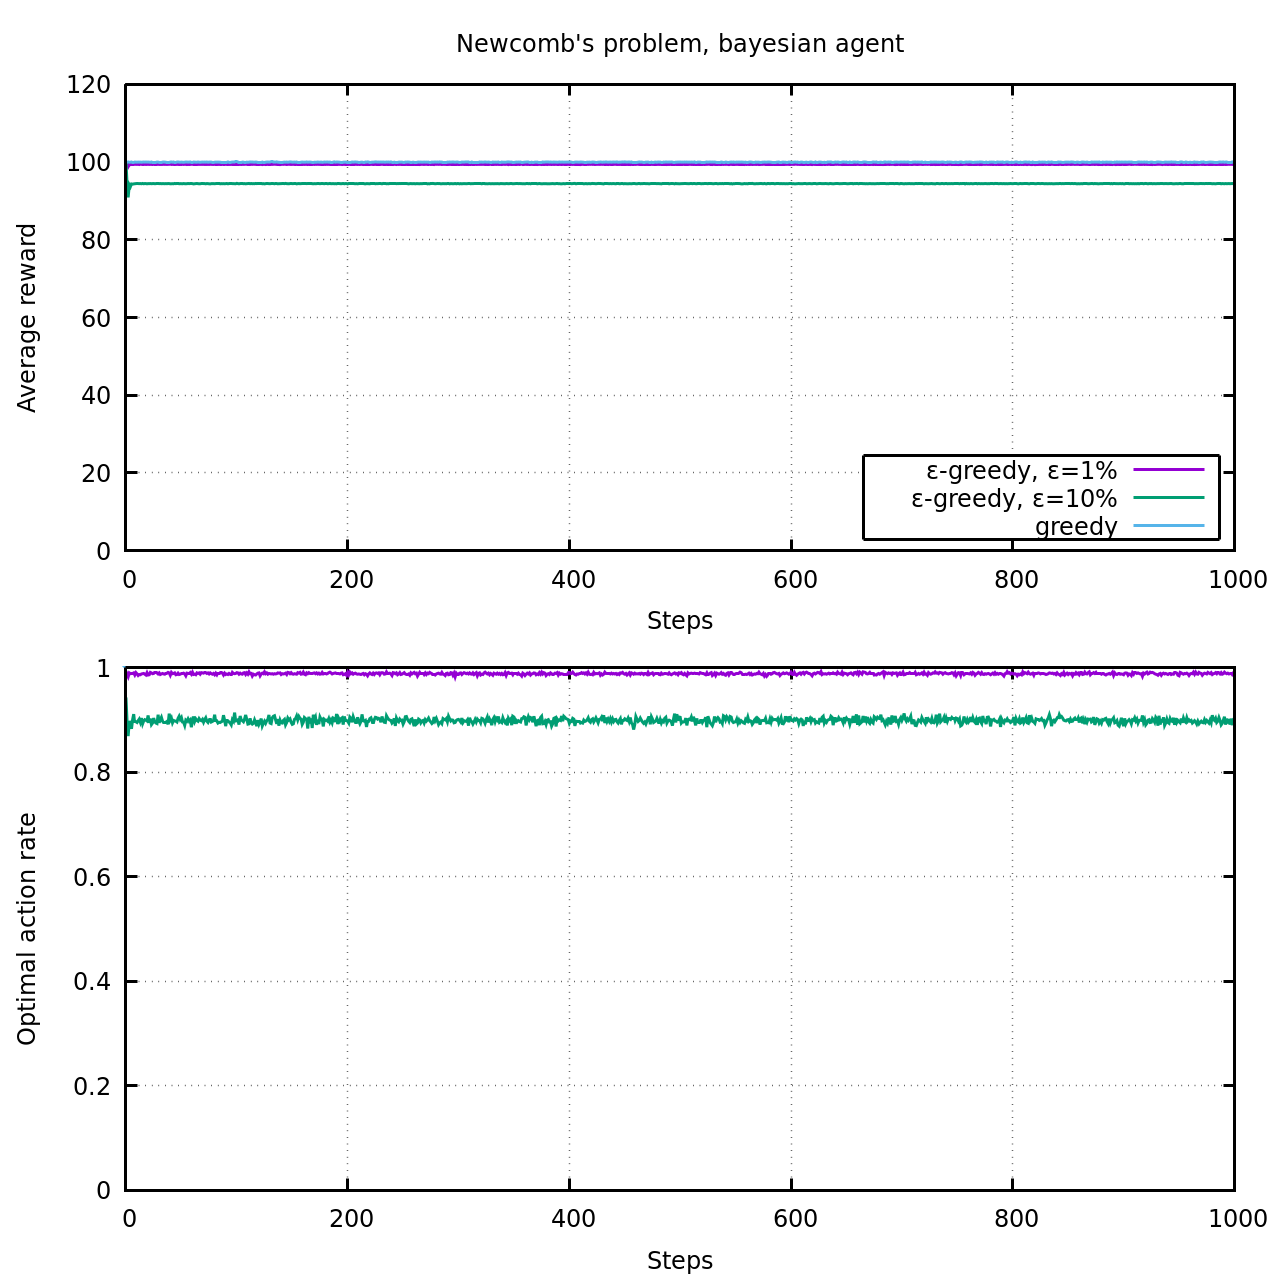
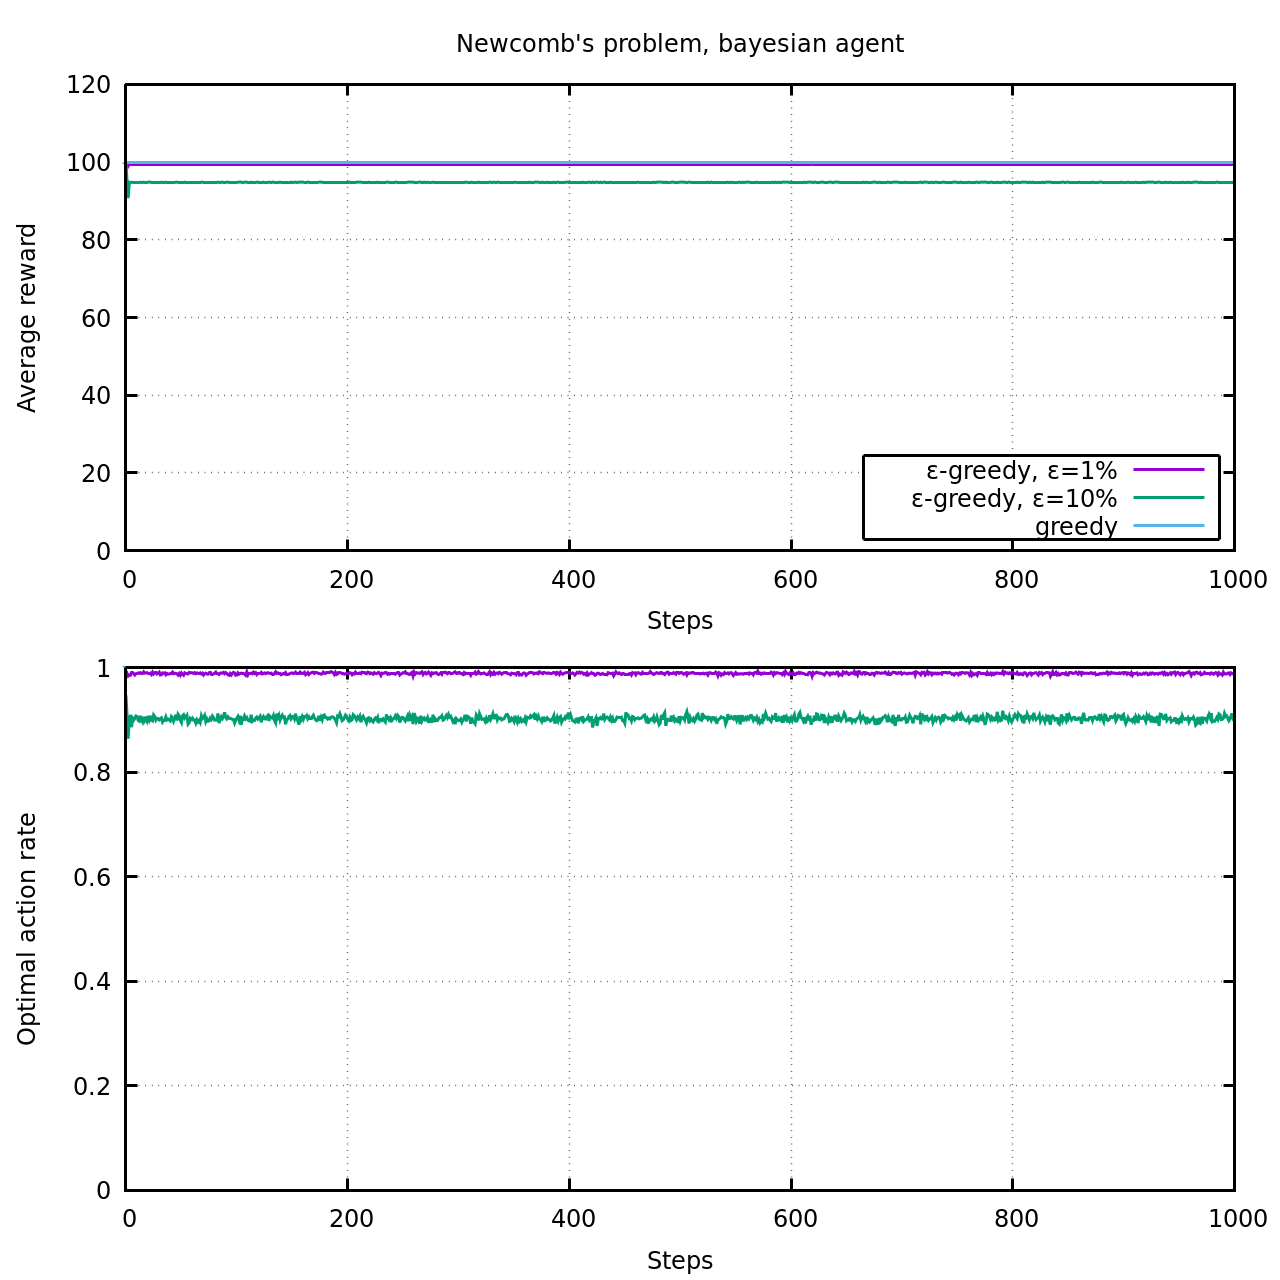
Make rewards deterministic in Newcomb environment

diff --git a/main.py b/main.py
@@ -25,13 +25,17 @@ class PolicyDependentBanditEnvironment:
     """
     Like a multi-armed bandit, but the reward depends on the (prediction,action) pair, rather than just the action
     """
-    def __init__(self, k : int):
+    def __init__(self, k : int, sample : bool = True):
         self.num_arms = k
+        self.sample = sample
 
     def interact(self, action : int, prediction : int) -> float:
         assert action >= 0 and action < self.num_arms
         assert prediction >= 0 and prediction < self.num_arms
-        return np.random.normal(self.true_values[prediction][action], 1)
+        if self.sample:
+            return np.random.normal(self.true_values[prediction][action], 1)
+        else:
+            return self.true_values[prediction][action]
 
     def get_best_action(self) -> int:
         # Logically consistent actions are along the diagonal
@@ -52,7 +56,7 @@ class NewcombEnvironment(PolicyDependentBanditEnvironment):
     Predicted 2-box & action 2-box -> reward 1
     """
     def __init__(self):
-        super().__init__(2)
+        super().__init__(2, False)
 
     def reset(self):
         self.true_values = np.array([
